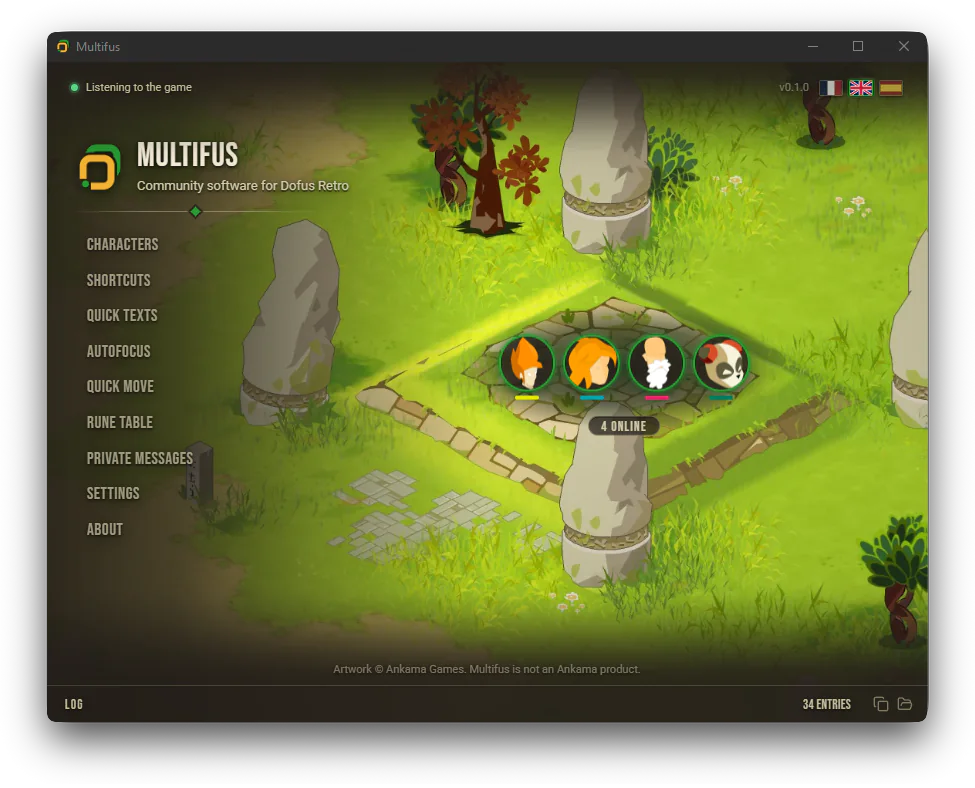
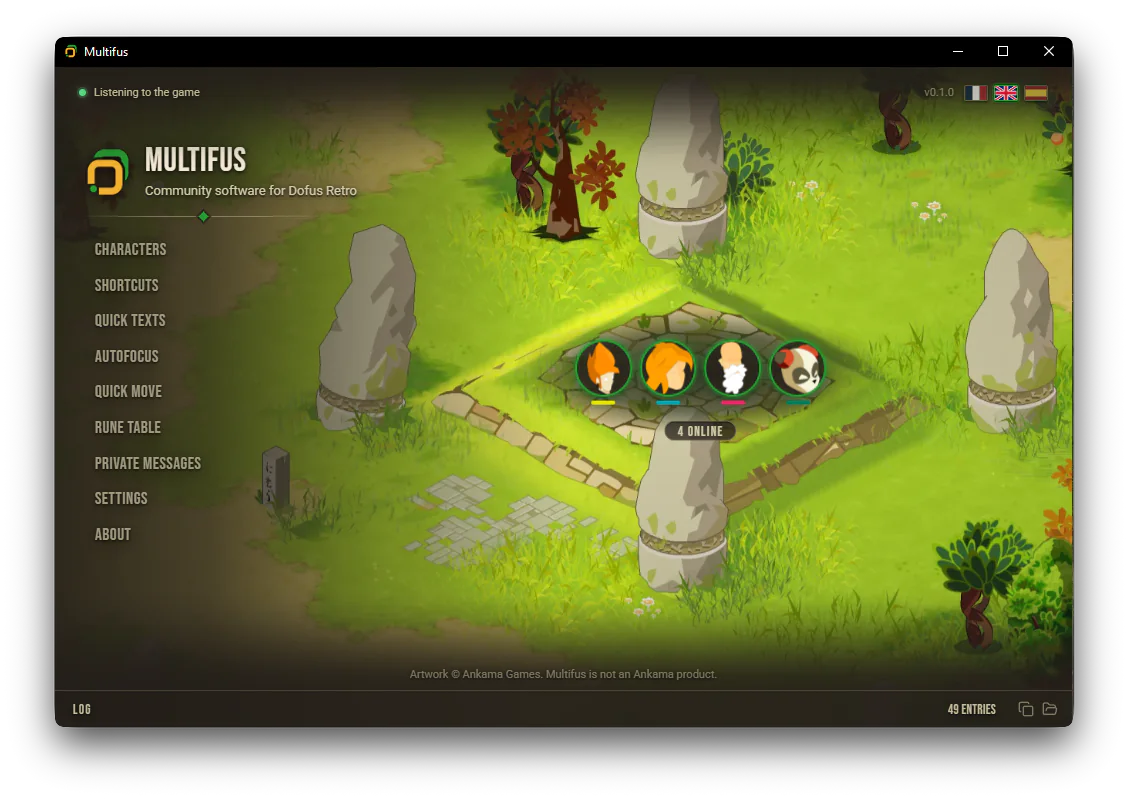
feat(website): retake the Windows shot on the bigger window
The Mac shots were taken again on a wider window, and the Windows ones
followed. Both canvases now share one ratio, so the download page fades
between the two systems without the layer beneath showing at the bottom.

Windows lands at 1128x803, Mac at 1400x996, each window sitting at the
same place in its canvas.

diff --git a/apps/website/src/constants/shots.ts b/apps/website/src/constants/shots.ts
@@ -29,13 +29,13 @@ const MAC_SMALL_SIZE = {
 } as const satisfies Size
 
 const WINDOWS_FULL_SIZE = {
-  width: 975,
-  height: 788
+  width: 1128,
+  height: 803
 } as const satisfies Size
 
 const WINDOWS_SMALL_SIZE = {
   width: 760,
-  height: 614
+  height: 541
 } as const satisfies Size
 
 export const SYSTEM_SHOTS = {
